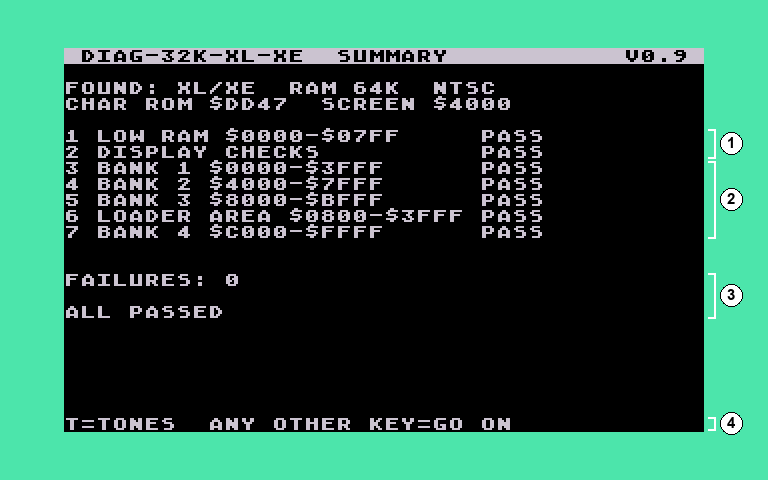
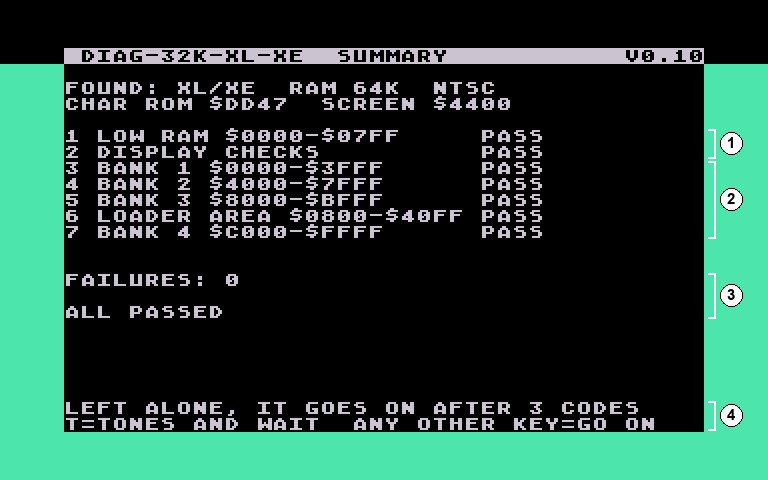
v0.10 docs: the pictures again, with V0.10 in the title bars
- docs/img: every picture regenerated by docshots (test 7's av-02-gtia
  left alone, as always); the 32k RAM summary now shows its two bottom
  lines (LEFT ALONE, IT GOES ON AFTER 3 CODES; T=TONES AND WAIT ...).
- docshots: the 32k summary's trigger is ^T=TONES AND WAIT; the menus'
  key callouts take in row 20 (the joystick line).
- Guide: the note about the old 32k summary picture is gone; the menus'
  key callouts mention the joystick.

diff --git a/tools/docshots.py b/tools/docshots.py
@@ -67,7 +67,7 @@ RUNS = {
         ('^R=RETEST  ANY OTHER KEY', 2, '16k-01-summary')]),
     '32k-sum': ('build/t32-fast', ['--xl', '--auto', '--basic', '@BASIC', '--key', '10',
                                    '--until', '600'], [   # (--auto: past stage 1's result;
-        ('^T=TONES  ANY OTHER KEY=GO ON', 0.1, '32k-01-summary')]),   # it goes on at +0.25 s)
+        ('^T=TONES AND WAIT', 0.1, '32k-01-summary')]),   # it goes on at +0.25 s)
     '32k': ('build/t32-fast', ['--xl', '--auto', '--basic', '@BASIC', '--key', '10',
                                '--until', '420'], [
         ('^START=RUN', 0.5, '32k-02-menu')]),   # (its results page: as the 16k tape's)
@@ -86,7 +86,7 @@ RUNS = {
 # The guide's callouts: picture -> [(first text row, last text row, number)].
 # Each is a bracket in the right border beside those rows, with its number.
 ANNOT = {
-    'cart-01-menu': [(4, 4, 1), (5, 11, 2), (12, 13, 3), (14, 14, 4), (18, 19, 5)],
+    'cart-01-menu': [(4, 4, 1), (5, 11, 2), (12, 13, 3), (14, 14, 4), (18, 20, 5)],
     'ram-02-testing': [(2, 3, 1), (5, 5, 2)],
     'ram-03-pass': [(4, 4, 1), (6, 9, 2), (20, 21, 3), (23, 23, 4)],
     'ram-04-summary': [(5, 6, 1), (7, 10, 2), (14, 16, 3)],
@@ -100,11 +100,11 @@ ANNOT = {
     'ports-02-paddles': [(5, 5, 1), (7, 7, 2), (8, 15, 3)],
     'av-01-pokey': [(5, 5, 1), (7, 7, 2), (8, 8, 3)],
     'av-02-gtia': [(3, 3, 1), (5, 7, 2), (9, 16, 3), (18, 21, 4), (23, 23, 5)],
-    'system-01-menu': [(4, 10, 1), (11, 11, 2), (12, 12, 3), (18, 19, 4)],
+    'system-01-menu': [(4, 10, 1), (11, 11, 2), (12, 12, 3), (18, 20, 4)],
     'system-02-results': [(4, 10, 1), (12, 16, 2)],
     '16k-01-summary': [(5, 6, 1), (7, 10, 2), (14, 16, 3), (23, 23, 4)],
-    '32k-01-summary': [(5, 6, 1), (7, 11, 2), (14, 16, 3), (23, 23, 4)],
-    '32k-02-menu': [(4, 4, 1), (5, 11, 2), (12, 12, 3), (13, 13, 4), (18, 19, 5)],
+    '32k-01-summary': [(5, 6, 1), (7, 11, 2), (14, 16, 3), (22, 23, 4)],
+    '32k-02-menu': [(4, 4, 1), (5, 11, 2), (12, 12, 3), (13, 13, 4), (18, 20, 5)],
     'memtest-01-running': [(5, 5, 1), (6, 6, 2), (8, 9, 3), (23, 23, 4)],
     'memtest-02-summary': [(5, 6, 1), (8, 9, 2)],
     'memtest-03-sweep': [(13, 13, 1)],

diff --git a/docs/USER-GUIDE.md b/docs/USER-GUIDE.md
@@ -876,9 +876,9 @@ menu.
    press of START runs everything.
 3. The results and the final code.
 4. The keys: START runs the highlighted line, SELECT moves down, OPTION
-   moves up, and the number keys run that test. After a test the next one
-   is highlighted, so pressing START again and again goes through them
-   all.
+   moves up, and the number keys run that test; a joystick works too
+   (fire runs, down and up move). After a test the next one is
+   highlighted, so pressing START again and again goes through them all.
 
 Running a test again replaces its old result.
 
@@ -906,9 +906,7 @@ One tape, one load, for any machine with 32K or more:
 3. The result and what's next.
 4. It goes on to the ROM test, then the menu: by itself after its code
    has played three times (row 22, `LEFT ALONE, IT GOES ON AFTER 3
-   CODES`), or at once on a key. T or OPTION stops the count. (The
-   picture is from before 0.9's last build: the two bottom lines now
-   read as described here.)
+   CODES`), or at once on a key. T or OPTION stops the count.
 
 5. The seven tests, with the menu:
 
@@ -921,7 +919,7 @@ One tape, one load, for any machine with 32K or more:
 2. The tests.
 3. All of them, in order.
 4. The results.
-5. The keys.
+5. The keys, joystick included, as on every menu.
 
 The results page (line 8) is the one shown under
 [The menu](#the-menu-diag-16k-02-system-and-diag-32k-xl-xe), with one more
